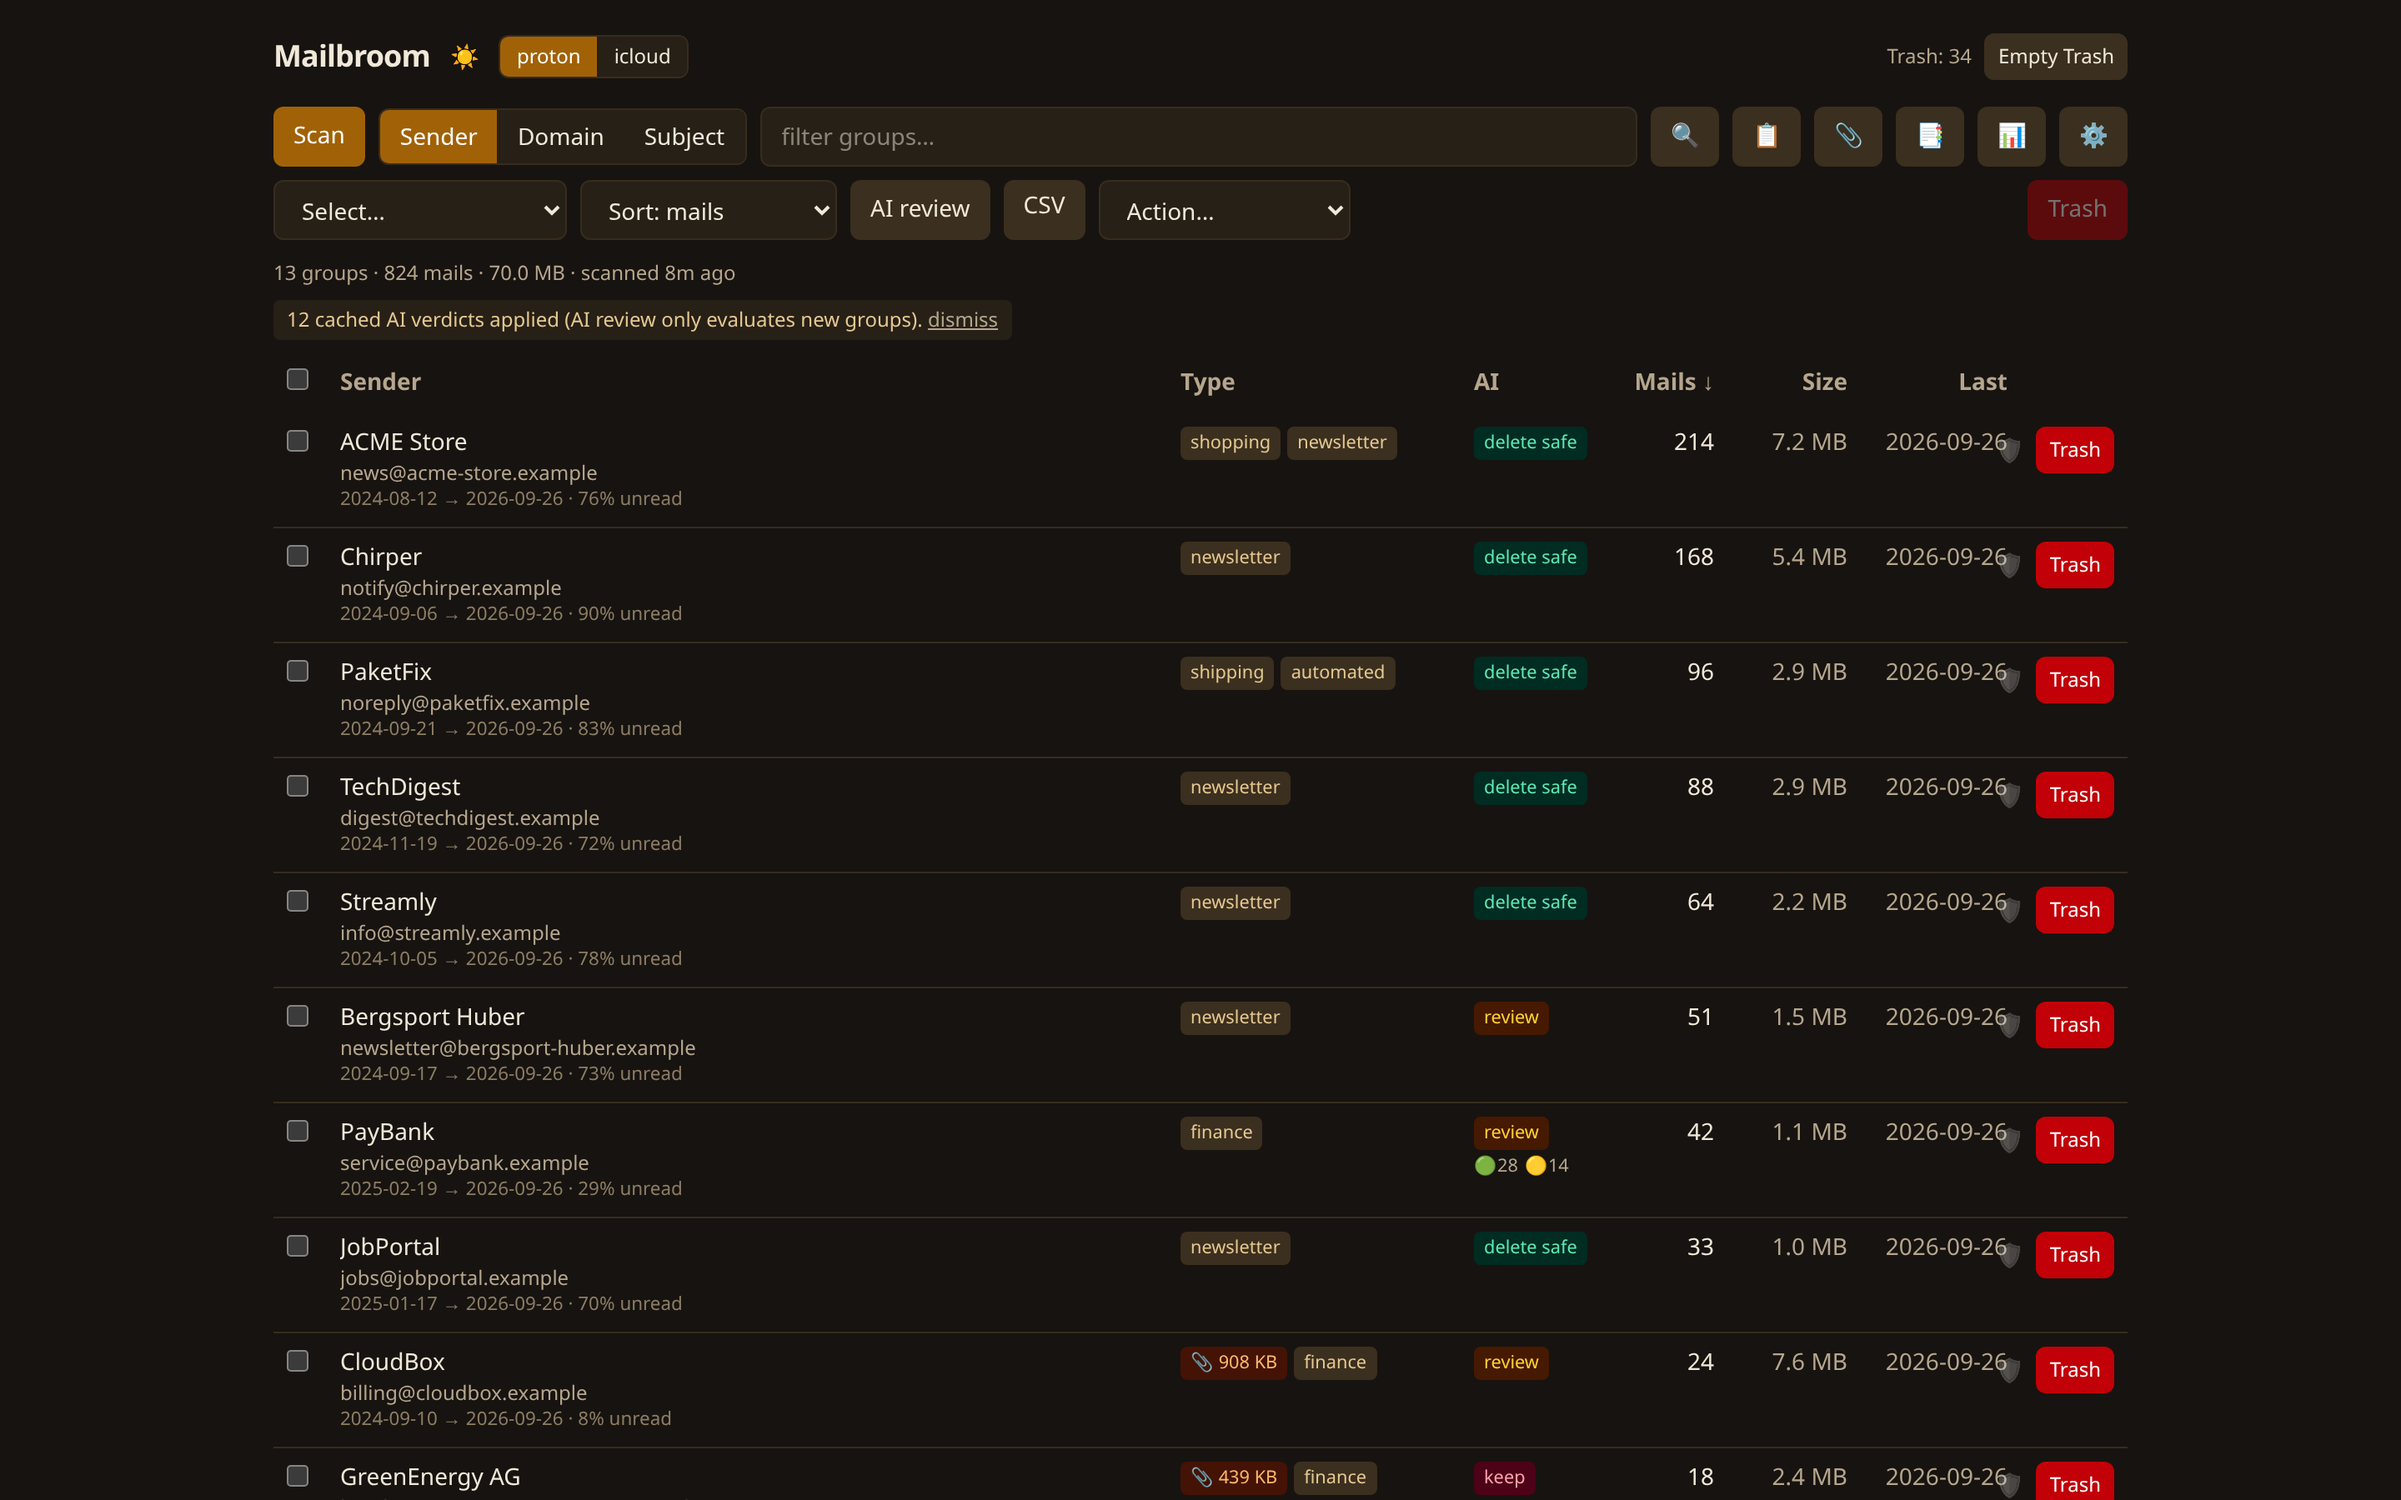
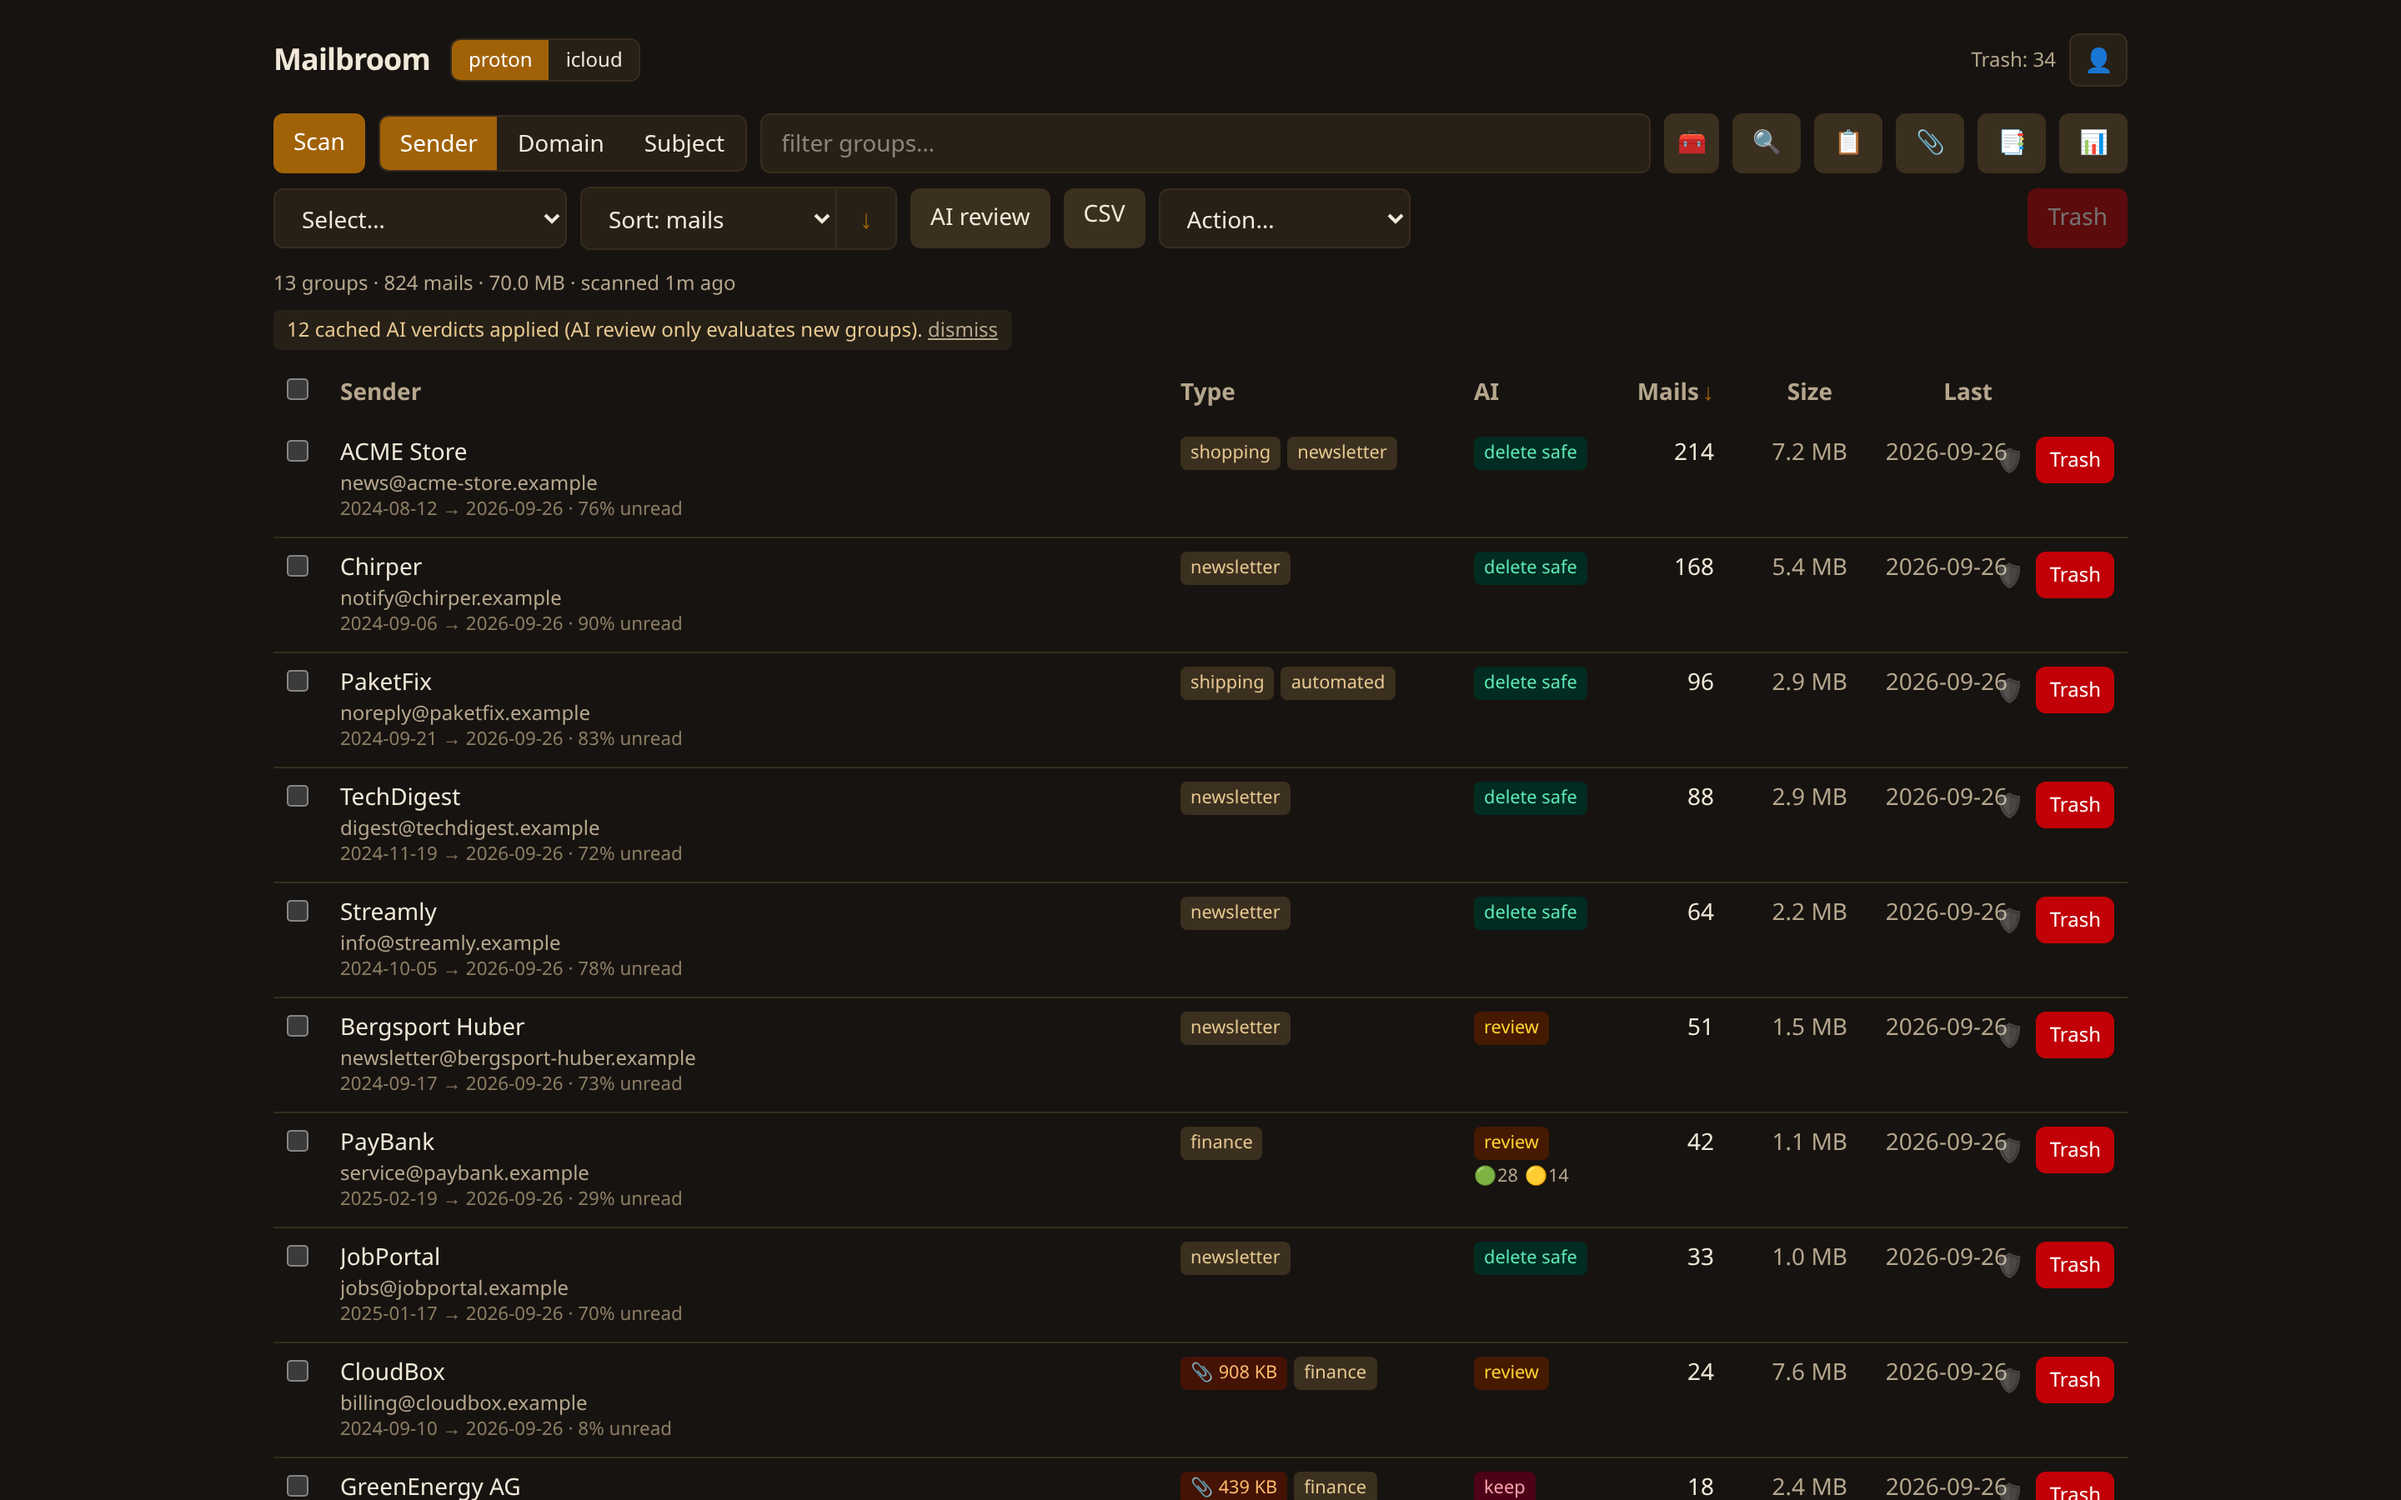
Fresh README media: updated screenshots + animated demo GIF
Stills re-captured on the current UI (profile menu, segmented sort,
query builder). New docs/screenshots/demo.gif (260 KB, 7 frames):
open the filter builder, click tag:newsletter + is:unsub together,
apply, select the AI-safe groups, drill into one — captured by
scripts/demo-gif.mjs against scripts/demo.py fake data.

Query-builder polish found during capture: on >=sm the panel is now a
dropdown anchored under the filter box (z-20, above the sticky table
header) instead of reflowing the whole toolbar, rows can no longer
overflow into each other (min-w-0/shrink-0), single-column layout fits
the anchored width. Phones keep the in-flow full-width panel.

diff --git a/frontend/src/components/QueryBuilder.tsx b/frontend/src/components/QueryBuilder.tsx
@@ -5,9 +5,9 @@ import { Button, Input, Select } from "./ui";
 /* Interactive helper for the filter/rule query DSL: instead of
  * remembering the syntax, users click conditions together — each one
  * appends its token to the query (tokens AND together). Renders as a
- * 🧰 toggle plus an INLINE full-width panel (no floating popover: it
- * must survive flex-wrap toolbars and scrolling modals alike), so in a
- * flex-wrap container the panel takes its own row. */
+ * 🧰 toggle plus a panel: a dropdown anchored to the (relative!) parent
+ * on >=sm, but IN-FLOW full-width on phones, where an absolute panel
+ * would overflow the viewport. Parents must set `relative`. */
 
 const TAGS = ["newsletter", "shipping", "finance", "shopping", "social",
   "travel", "dev/cloud", "automated"];
@@ -31,7 +31,7 @@ export function QueryBuilder({ value, onChange, className = "" }: {
     onChange(q ? `${q} ${tok}` : tok);
   };
   const addBtn = (tok: string) => (
-    <Button variant="ghost" className="!min-h-8 !px-2 !text-xs"
+    <Button variant="ghost" className="!min-h-8 shrink-0 !px-2 !text-xs"
       onClick={() => add(tok)}>
       {t("qb.add")}
     </Button>
@@ -53,9 +53,11 @@ export function QueryBuilder({ value, onChange, className = "" }: {
         onClick={() => setOpen(!open)}>
         🧰
       </Button>
+      {/* z-20: must cover the group table's sticky header (z-10). */}
       {open && (
         <div className={`w-full rounded-lg border border-line bg-panel2 p-3
-          ${className}`}>
+          sm:absolute sm:left-0 sm:right-0 sm:top-full sm:z-20 sm:mt-1
+          sm:shadow-lg ${className}`}>
           <div className="mb-2 flex items-center gap-2 text-xs text-muted">
             <span className="font-medium uppercase tracking-wide">
               {t("qb.title")}</span>
@@ -65,20 +67,20 @@ export function QueryBuilder({ value, onChange, className = "" }: {
             <button className="underline-offset-2 hover:underline"
               onClick={() => setOpen(false)}>{t("qb.done")}</button>
           </div>
-          <div className="grid gap-2 sm:grid-cols-2">
-            <div className="flex items-center gap-2 text-sm">
+          <div className="grid gap-2">
+            <div className="flex min-w-0 items-center gap-2 text-sm">
               <span className="w-24 shrink-0 text-xs text-muted">
                 {t("qb.tag")}</span>
-              <Select className="!min-h-8 flex-1 !text-xs" value={tag}
+              <Select className="!min-h-8 min-w-0 flex-1 !text-xs" value={tag}
                 onChange={(e) => setTag(e.target.value)}>
                 {TAGS.map((x) => <option key={x}>{x}</option>)}
               </Select>
               {addBtn(`tag:${tag}`)}
             </div>
-            <div className="flex items-center gap-2 text-sm">
+            <div className="flex min-w-0 items-center gap-2 text-sm">
               <span className="w-24 shrink-0 text-xs text-muted">
                 {t("qb.ai")}</span>
-              <Select className="!min-h-8 flex-1 !text-xs" value={ai}
+              <Select className="!min-h-8 min-w-0 flex-1 !text-xs" value={ai}
                 onChange={(e) => setAi(e.target.value)}>
                 <option value="safe">{t("qb.ai_safe")}</option>
                 <option value="review">{t("qb.ai_review")}</option>
@@ -86,19 +88,19 @@ export function QueryBuilder({ value, onChange, className = "" }: {
               </Select>
               {addBtn(`ai:${ai}`)}
             </div>
-            <div className="flex items-center gap-2 text-sm">
+            <div className="flex min-w-0 items-center gap-2 text-sm">
               <span className="w-24 shrink-0 text-xs text-muted">
                 {t("qb.age")}</span>
               <Input className="!min-h-8 w-14 !text-xs" type="number" min="1"
                 value={age} onChange={(e) => setAge(e.target.value)} />
-              <Select className="!min-h-8 flex-1 !text-xs" value={ageUnit}
+              <Select className="!min-h-8 min-w-0 flex-1 !text-xs" value={ageUnit}
                 onChange={(e) => setAgeUnit(e.target.value as "m" | "y")}>
                 <option value="m">{t("qb.months")}</option>
                 <option value="y">{t("qb.years")}</option>
               </Select>
               {addBtn(`age:>${+age || 1}${ageUnit}`)}
             </div>
-            <div className="flex items-center gap-2 text-sm">
+            <div className="flex min-w-0 items-center gap-2 text-sm">
               <span className="w-24 shrink-0 text-xs text-muted">
                 {t("qb.unread")}</span>
               <Input className="!min-h-8 w-14 !text-xs" type="number"
@@ -107,7 +109,7 @@ export function QueryBuilder({ value, onChange, className = "" }: {
               <span className="text-xs text-muted">%</span>
               {addBtn(`unread:>${+unread || 1}`)}
             </div>
-            <div className="flex items-center gap-2 text-sm">
+            <div className="flex min-w-0 items-center gap-2 text-sm">
               <span className="w-24 shrink-0 text-xs text-muted">
                 {t("qb.att")}</span>
               <Input className="!min-h-8 w-14 !text-xs" type="number" min="1"
@@ -115,8 +117,7 @@ export function QueryBuilder({ value, onChange, className = "" }: {
               <span className="text-xs text-muted">MB</span>
               {addBtn(`att:>${+att || 1}m`)}
             </div>
-            <div className="flex flex-wrap items-center gap-1.5
-              sm:col-span-2">
+            <div className="flex flex-wrap items-center gap-1.5">
               <span className="w-24 shrink-0 text-xs text-muted">
                 {t("qb.flags")}</span>
               {flag("is:unsub", t("qb.is_unsub"))}

diff --git a/frontend/src/App.tsx b/frontend/src/App.tsx
@@ -530,8 +530,8 @@ export default function App() {
         {/* Filter + builder share one flex-wrap unit: the 🧰 sits right
             next to the input on every width, and the builder panel
             (w-full) wraps to its own line directly underneath. */}
-        <div className="order-last flex w-full flex-wrap items-center gap-2
-          sm:order-none sm:w-auto sm:min-w-24 sm:flex-1">
+        <div className="relative order-last flex w-full flex-wrap
+          items-center gap-2 sm:order-none sm:w-auto sm:min-w-24 sm:flex-1">
           <Input
             ref={filterRef}
             className="min-w-0 flex-1"

diff --git a/frontend/src/components/RulesModal.tsx b/frontend/src/components/RulesModal.tsx
@@ -184,7 +184,7 @@ export function RulesModal({ state, onClose, onChanged }: {
               <option value="subject">{t("Subject")}</option>
             </Select>
             <div className="sm:col-span-2">
-              <div className="flex flex-wrap items-center gap-2">
+              <div className="relative flex flex-wrap items-center gap-2">
                 <Input className="min-w-0 flex-1"
                   placeholder="tag:shipping age:>1y is:noreply-ever …"
                   value={form.query} onChange={set("query")} />

diff --git a/README.md b/README.md
@@ -13,6 +13,11 @@ Foundry) that suggests what's safe to delete and tracks its own cost.
 
 ![Mailbroom group view](docs/screenshots/groups-dark.png)
 
+**In action** — click a filter together, select everything the AI rated
+safe, drill into a group:
+
+![Filter, select, drill down](docs/screenshots/demo.gif)
+
 <details>
 <summary>More screenshots — drill-down, statistics, light theme</summary>
 
@@ -20,9 +25,11 @@ Foundry) that suggests what's safe to delete and tracks its own cost.
 ![Statistics](docs/screenshots/stats.png)
 ![Light theme](docs/screenshots/groups-light.png)
 
-All screenshots show generated demo data (`scripts/demo.py` — run it
-yourself for a zero-setup playground on fake mailboxes).
 </details>
+
+All screenshots show generated demo data (`scripts/demo.py` — run it
+yourself for a zero-setup playground on fake mailboxes; the GIF rig is
+`scripts/demo-gif.mjs`).
 
 ## Supported providers
 
